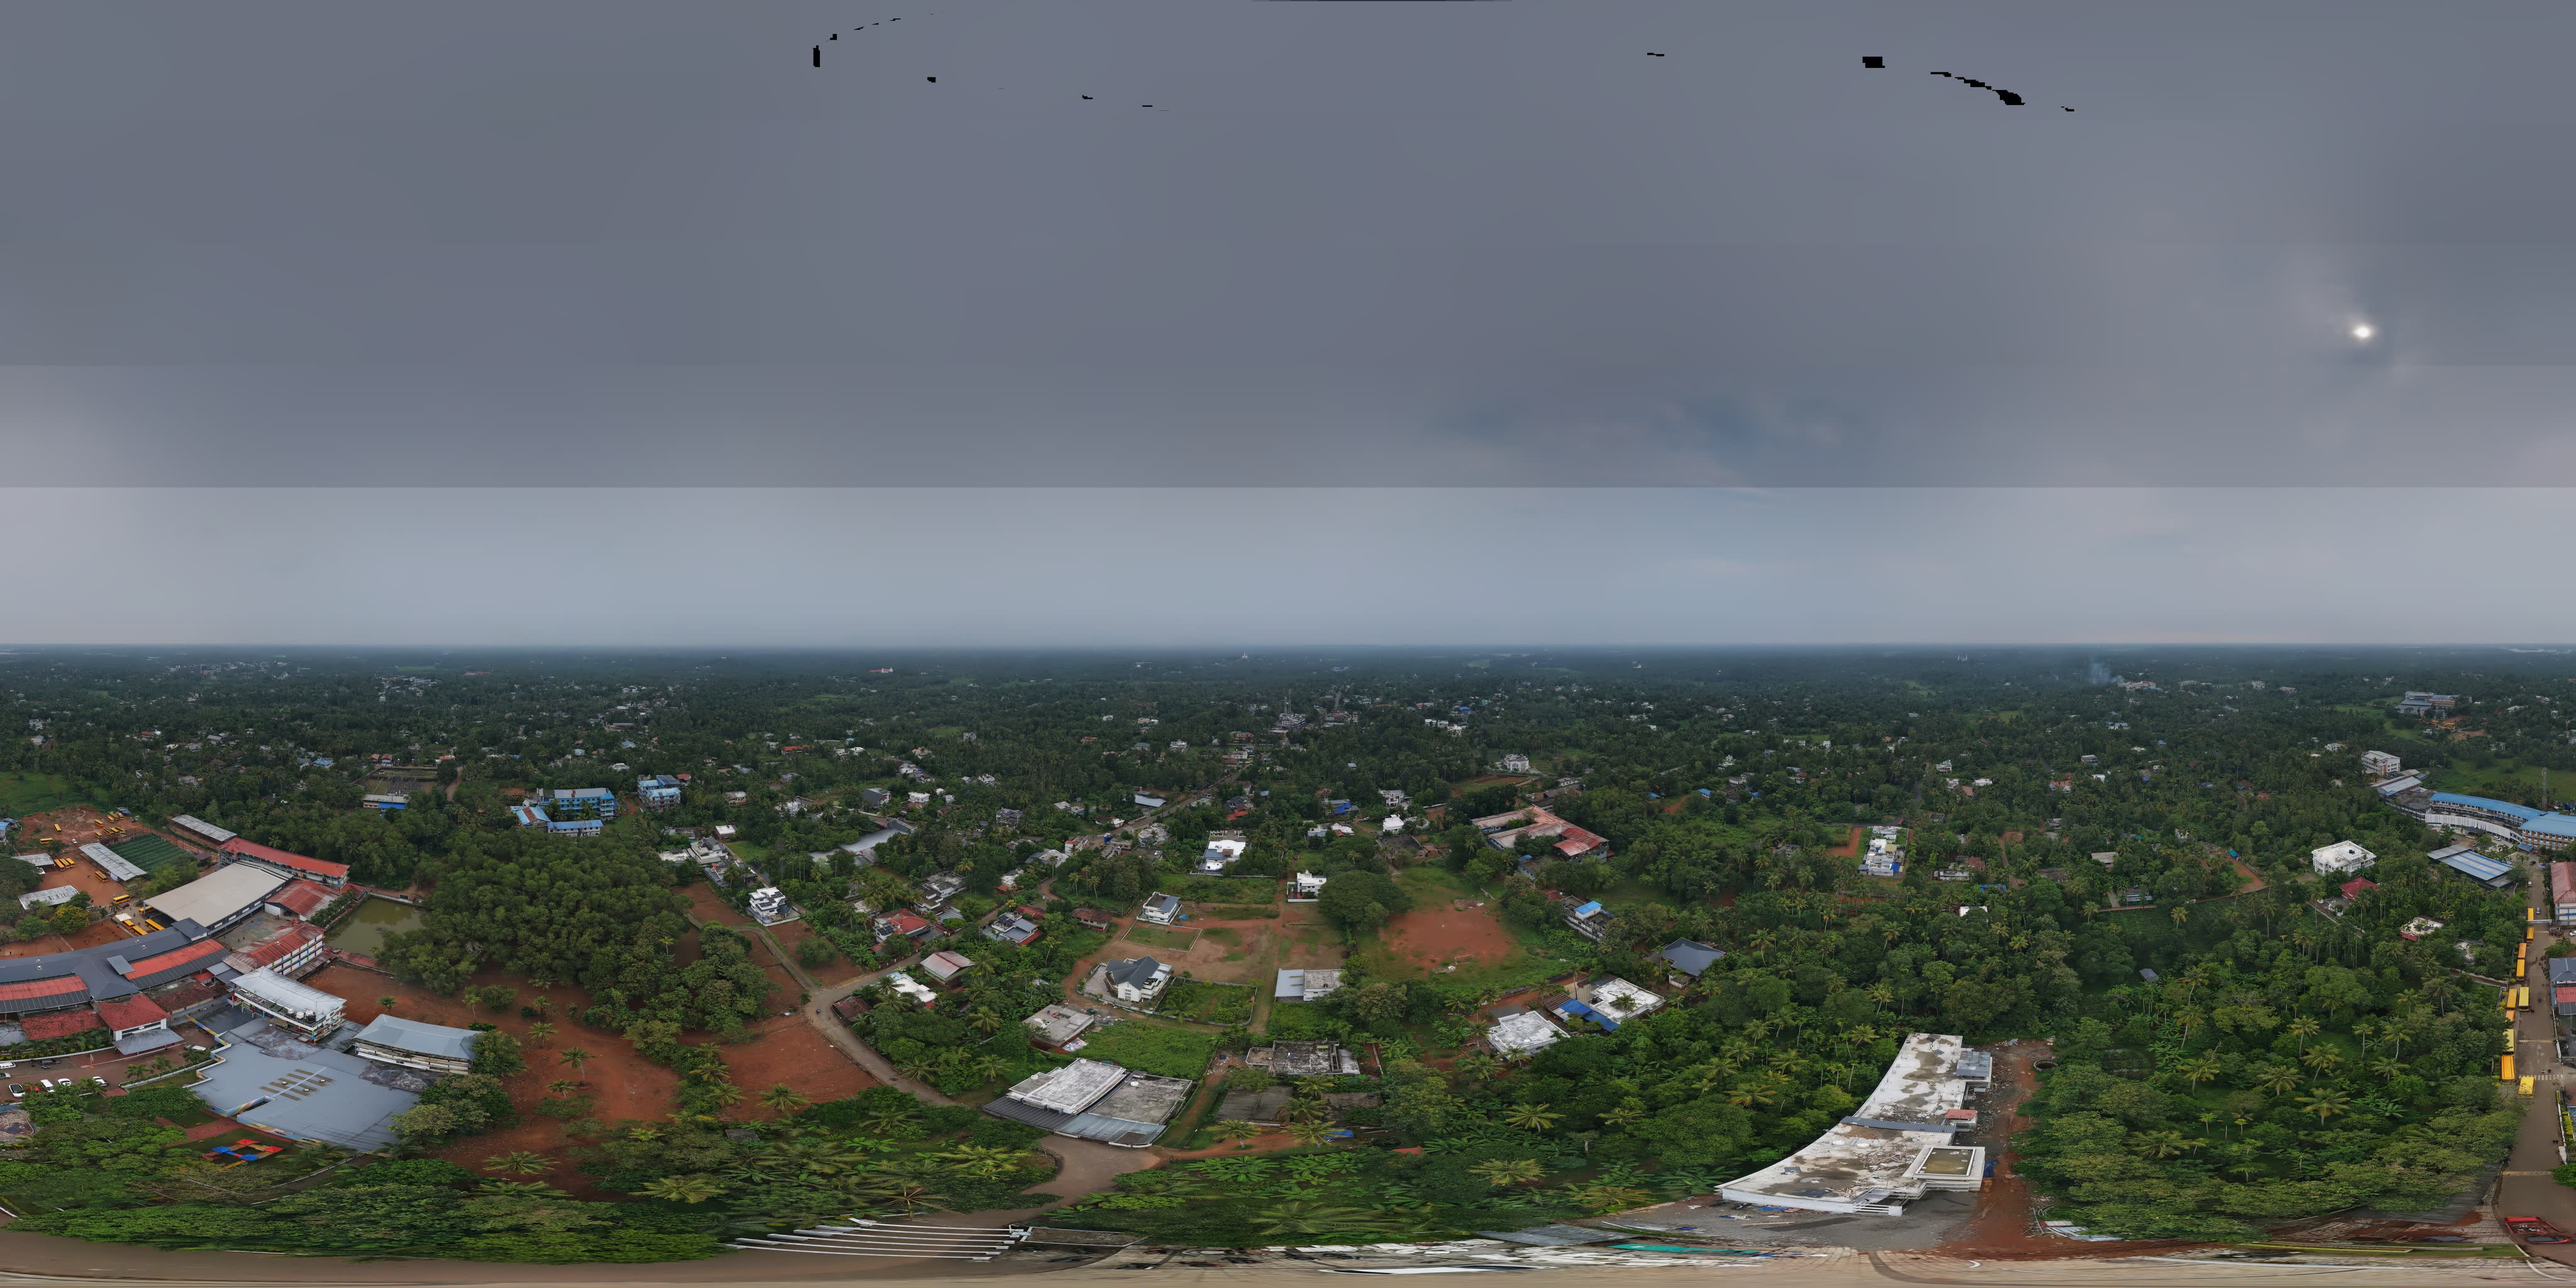
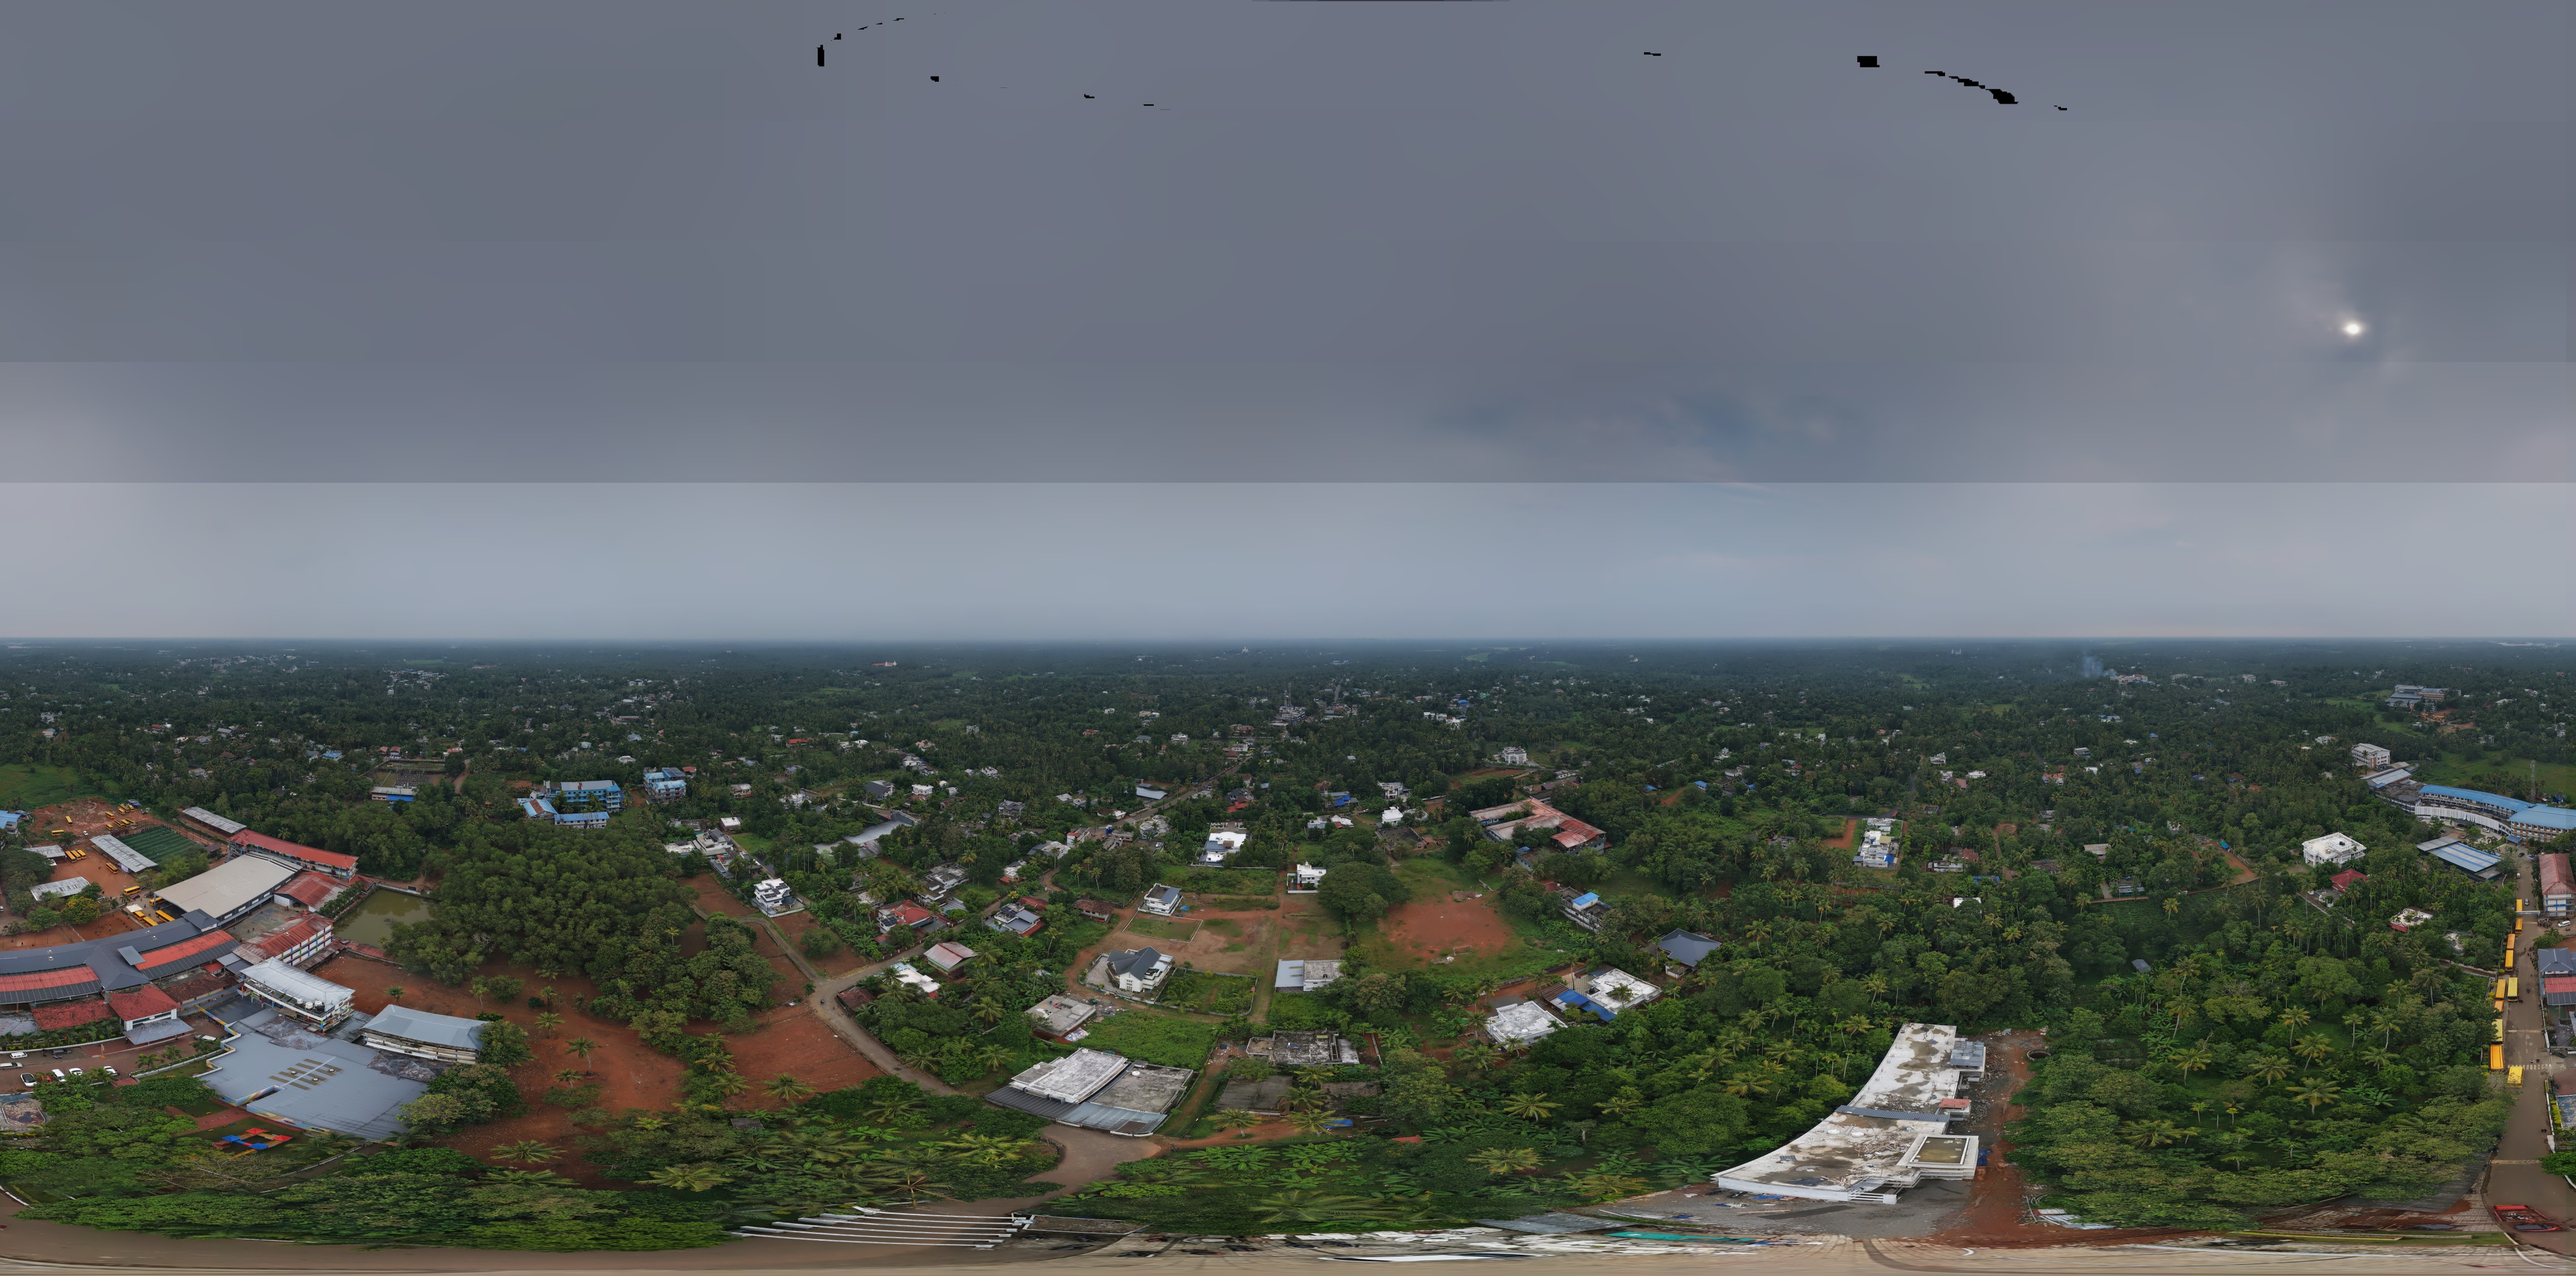
Restore crystal-clear master quality without loss and fix mobile touch freeze bug

diff --git a/360-map/src/components/PanoramaViewer.tsx b/360-map/src/components/PanoramaViewer.tsx
@@ -4,24 +4,15 @@ import 'pannellum/build/pannellum.js'
 import type { PannellumViewer } from '../types/pannellum'
 
 export interface PanoramaViewerProps {
-  /** Tiny, blurred image painted immediately while the real texture downloads. */
+  /** Tiny, blurred preview loaded immediately behind the splash screen. */
   preview: string
-  /** 2048px texture: specifically optimized for mobile and low-end GPUs to prevent rotation/zoom lag. */
-  mobile?: string
-  /** Medium image (4096px): fits mid-range phones, tablets, and laptops. */
+  /** 4096px master texture: pixel-perfect Retina clarity on mobile phones and tablets. */
   standard: string
-  /** Full-detail image (8192px): only used on high-spec desktop displays with capable GPUs. */
+  /** 8192px master texture: ultra-detailed clarity for large desktop screens with high-end GPUs. */
   highRes?: string
   /** Called once the chosen texture has finished loading. */
   onReady?: () => void
   className?: string
-}
-
-export interface DeviceProfile {
-  tier: 'low' | 'mid' | 'high'
-  targetDpr: number
-  friction: number
-  compass: boolean
 }
 
 /** Largest texture this device's WebGL can bind (0 when WebGL is missing). */
@@ -40,162 +31,58 @@ function getMaxTextureSize(): number {
 }
 
 /**
- * Checks for known low-end mobile / integrated GPUs with limited fill-rate
- * or narrow memory bus that struggle with high-resolution equirectangular sampling.
+ * High-definition texture selector:
+ * Keeps 100% crystal-clear original quality without exceeding GPU hardware limits.
  */
-function isLowTierGPU(): boolean {
-  try {
-    const canvas = document.createElement('canvas')
-    const gl = (canvas.getContext('webgl') ||
-      canvas.getContext('experimental-webgl')) as WebGLRenderingContext | null
-    if (!gl) return true
-    const debugInfo = gl.getExtension('WEBGL_debug_renderer_info')
-    if (debugInfo) {
-      const renderer = (gl.getParameter(debugInfo.UNMASKED_RENDERER_WEBGL) || '').toLowerCase()
-      gl.getExtension('WEBGL_lose_context')?.loseContext()
-      if (/mali-4|mali-t|mali-g3|mali-g51|mali-g52|adreno\s*(3|4|5|610|612|615|616)|powervr/i.test(renderer)) {
-        return true
-      }
-    } else {
-      gl.getExtension('WEBGL_lose_context')?.loseContext()
-    }
-  } catch {
-    // ignore
-  }
-  return false
-}
+function pickSource(standard: string, highRes?: string): string {
+  if (!highRes) return standard
 
-/**
- * Analyzes device memory, CPU cores, screen dimensions, GPU and user agent
- * to categorize the device into 'low', 'mid', or 'high'.
- */
-function detectDeviceProfile(): DeviceProfile {
-  if (typeof window === 'undefined') {
-    return { tier: 'mid', targetDpr: 1, friction: 0.15, compass: false }
-  }
+  if (typeof window === 'undefined') return standard
 
-  const nav = navigator as Navigator & {
-    deviceMemory?: number
-    connection?: { saveData?: boolean }
-  }
-
+  const isMobileScreen = window.innerWidth < 1200 || (window.screen && window.screen.width < 1200)
   const isTouch = Boolean(
     (typeof navigator !== 'undefined' && navigator.maxTouchPoints > 0) ||
     'ontouchstart' in window
   )
-  const isMobileScreen = window.innerWidth <= 820 || (window.screen && window.screen.width <= 820)
   const isMobileUA = /Android|webOS|iPhone|iPad|iPod|BlackBerry|IEMobile|Opera Mini|Mobile/i.test(
     navigator.userAgent
   )
-  const isMobile = isMobileUA || (isTouch && isMobileScreen)
 
-  const ram = typeof nav.deviceMemory === 'number' ? nav.deviceMemory : undefined
-  const cores = typeof navigator.hardwareConcurrency === 'number' ? navigator.hardwareConcurrency : undefined
-  const saveData = Boolean(nav.connection?.saveData)
-  const maxTex = getMaxTextureSize()
-  const lowGPU = isLowTierGPU()
-
-  // Low-tier conditions:
-  // 1. User has "Save Data" turned on
-  // 2. GPU reported as known low-tier mobile chip
-  // 3. WebGL max texture size is under 8192
-  // 4. Low RAM (<= 4 GB on Android)
-  // 5. Mobile device with <= 4 CPU cores or small screen width
-  const isLowTier =
-    saveData ||
-    lowGPU ||
-    (maxTex > 0 && maxTex < 8192) ||
-    (typeof ram === 'number' && ram > 0 && ram <= 4) ||
-    (isMobile && typeof cores === 'number' && cores <= 4) ||
-    (isMobile && window.innerWidth <= 540)
-
-  if (isLowTier) {
-    return {
-      tier: 'low',
-      // Capping DPR to 1.15 slashes fragment shader fill-rate workload by up to 80% on 1080p+ mobile screens,
-      // avoiding GPU throttling while keeping visuals crisp.
-      targetDpr: Math.min(window.devicePixelRatio || 1, 1.15),
-      // Higher friction halts rotation quickly, preventing touch queue momentum lag/stuck feeling.
-      friction: 0.22,
-      compass: false,
-    }
+  // On mobile/tablets, 4096x2048 is pixel-perfect 1:1 match with Retina screens (~1138px across 100° FOV).
+  // It completely avoids split-texture shader branching in WebGL, guaranteeing 60fps with zero blur.
+  if (isMobileScreen || isTouch || isMobileUA) {
+    return standard
   }
 
-  if (isMobile) {
-    return {
-      tier: 'mid',
-      targetDpr: Math.min(window.devicePixelRatio || 1, 1.5),
-      friction: 0.18,
-      compass: true,
-    }
+  // Desktops with capable GPUs bind the full 8192px master panorama
+  if (getMaxTextureSize() >= 8192) {
+    return highRes
   }
 
-  // Desktop / Laptop detection
-  const isHighEndDesktop =
-    !isTouch &&
-    window.innerWidth >= 1200 &&
-    maxTex >= 8192 &&
-    (typeof ram === 'undefined' || ram >= 8) &&
-    (typeof cores === 'undefined' || cores >= 6)
-
-  if (isHighEndDesktop) {
-    return {
-      tier: 'high',
-      targetDpr: Math.min(window.devicePixelRatio || 1, 2.0),
-      friction: 0.15,
-      compass: true,
-    }
-  }
-
-  return {
-    tier: 'mid',
-    targetDpr: Math.min(window.devicePixelRatio || 1, 1.5),
-    friction: 0.15,
-    compass: true,
-  }
+  return standard
 }
 
 /**
- * Clamps window.devicePixelRatio before Pannellum initializes so its internal canvas
- * constructor does not allocate an oversized WebGL drawing buffer on high-DPI budget phones.
+ * Ensures canvas renders at true Apple Retina / High-DPI sharpness (DPR 2.0)
+ * without wasteful 3.5x oversampling on budget phone screens.
  */
-function clampDevicePixelRatio(targetDpr: number) {
+function clampRetinaDpr(maxDpr: number = 2.0) {
   if (typeof window === 'undefined') return
   const currentDpr = window.devicePixelRatio || 1
-  if (currentDpr <= targetDpr) return
+  if (currentDpr <= maxDpr) return
 
   try {
     Object.defineProperty(window, 'devicePixelRatio', {
-      get: () => targetDpr,
+      get: () => maxDpr,
       configurable: true,
     })
   } catch {
-    // If not configurable, fallback is handled via renderer.resize
+    // Handled gracefully via renderer.resize
   }
-}
-
-/**
- * Choose the optimal texture resolution for this device's tier.
- */
-function pickSource(
-  profile: DeviceProfile,
-  mobile?: string,
-  standard?: string,
-  highRes?: string
-): string {
-  const fallback = standard || mobile || highRes || ''
-  if (profile.tier === 'low') {
-    return mobile || fallback
-  }
-  if (profile.tier === 'high' && highRes) {
-    return highRes
-  }
-  return fallback
 }
 
 export default function PanoramaViewer({
   preview,
-  mobile,
   standard,
   highRes,
   onReady,
@@ -215,27 +102,53 @@ export default function PanoramaViewer({
       return
     }
 
-    const profile = detectDeviceProfile()
-    clampDevicePixelRatio(profile.targetDpr)
+    // Keep razor-sharp Retina resolution (DPR 2.0)
+    const targetDpr = Math.min(window.devicePixelRatio || 1, 2.0)
+    clampRetinaDpr(targetDpr)
 
-    const panoramaSrc = pickSource(profile, mobile, standard, highRes)
+    const panoramaSrc = pickSource(standard, highRes)
 
-    const viewer = window.pannellum.viewer(container, {
-      type: 'equirectangular',
-      panorama: panoramaSrc,
-      preview,
-      autoLoad: true,
-      compass: profile.compass,
-      showFullscreenCtrl: true,
-      showZoomCtrl: true,
-      hfov: 100,
-      minHfov: 50,
-      maxHfov: 120,
-      friction: profile.friction,
-      touchPanSpeedCoeffFactor: 1,
-    })
+    // FIX FOR MOBILE LAG & STUCK BUG:
+    // Pannellum's 2015 "IE/Edge" PointerEvent handler leaves ghost coordinates in an internal array
+    // whenever a finger is lifted during pinch-to-zoom. When the user continues with 1 finger,
+    // it keeps calculating pinch math against the phantom finger, locking up the view.
+    // By temporarily masking PointerEvent during viewer creation on touch devices, Pannellum
+    // binds native touchstart/touchmove/touchend which correctly tracks physical fingers.
+    const isTouchDevice =
+      typeof window !== 'undefined' &&
+      ('ontouchstart' in window ||
+        (typeof navigator !== 'undefined' && navigator.maxTouchPoints > 0) ||
+        /Mobi|Android|iPhone|iPad/i.test(navigator.userAgent))
 
-    // Double safeguard: ensure renderer.resize strictly respects targetDpr on orientation/screen changes
+    const origPointerEvent = (window as unknown as { PointerEvent?: unknown }).PointerEvent
+
+    let viewer: PannellumViewer
+    try {
+      if (isTouchDevice) {
+        delete (window as unknown as { PointerEvent?: unknown }).PointerEvent
+      }
+
+      viewer = window.pannellum.viewer(container, {
+        type: 'equirectangular',
+        panorama: panoramaSrc,
+        preview,
+        autoLoad: true,
+        compass: true,
+        showFullscreenCtrl: true,
+        showZoomCtrl: true,
+        hfov: 100,
+        minHfov: 45,
+        maxHfov: 120,
+        friction: 0.15,
+        touchPanSpeedCoeffFactor: 1,
+      })
+    } finally {
+      if (isTouchDevice && origPointerEvent) {
+        ;(window as unknown as { PointerEvent?: unknown }).PointerEvent = origPointerEvent
+      }
+    }
+
+    // Enforce razor-sharp Retina DPR on canvas resizing
     try {
       const viewerAny = viewer as unknown as {
         getRenderer?: () => {
@@ -250,8 +163,8 @@ export default function PanoramaViewer({
           origResize()
           const canvas = renderer.getCanvas()
           if (canvas) {
-            const expectedW = Math.round(canvas.clientWidth * profile.targetDpr)
-            const expectedH = Math.round(canvas.clientHeight * profile.targetDpr)
+            const expectedW = Math.round(canvas.clientWidth * targetDpr)
+            const expectedH = Math.round(canvas.clientHeight * targetDpr)
             if (canvas.width > expectedW || canvas.height > expectedH) {
               canvas.width = expectedW
               canvas.height = expectedH
@@ -269,15 +182,34 @@ export default function PanoramaViewer({
       // Ignore if Pannellum internals change
     }
 
+    // Seamless touch transition: when lifting 1 finger after a pinch, smoothly re-anchor single-finger drag
+    const dragFix = container.querySelector('.pnlm-dragfix') as HTMLElement | null
+    const handleTouchEnd = (e: TouchEvent) => {
+      if (e.touches.length === 1 && dragFix) {
+        const touch = e.touches[0]
+        const simulatedStart = new TouchEvent('touchstart', {
+          touches: [touch],
+          targetTouches: [touch],
+          changedTouches: [touch],
+          bubbles: true,
+          cancelable: true,
+        })
+        dragFix.dispatchEvent(simulatedStart)
+      }
+    }
+
+    dragFix?.addEventListener('touchend', handleTouchEnd, { passive: true })
+
     viewer.on('load', () => onReadyRef.current?.())
 
     viewerRef.current = viewer
 
     return () => {
+      dragFix?.removeEventListener('touchend', handleTouchEnd)
       viewerRef.current = null
       viewer.destroy()
     }
-  }, [preview, mobile, standard, highRes])
+  }, [preview, standard, highRes])
 
   return <div ref={containerRef} className={className} />
 }

diff --git a/360-map/src/App.tsx b/360-map/src/App.tsx
@@ -4,7 +4,6 @@ import { WelcomeScreen } from './components/WelcomeScreen'
 import './App.css'
 
 const PANORAMA_PREVIEW = '/panoramas/pano-preview.jpg'
-const PANORAMA_MOBILE = '/panoramas/pano-2048.jpg'
 const PANORAMA_STANDARD = '/panoramas/pano-4096.jpg'
 const PANORAMA_HIGH_RES = '/panoramas/pano-8192.jpg'
 
@@ -16,7 +15,6 @@ function App() {
       <PanoramaViewer
         className="panorama-viewer"
         preview={PANORAMA_PREVIEW}
-        mobile={PANORAMA_MOBILE}
         standard={PANORAMA_STANDARD}
         highRes={PANORAMA_HIGH_RES}
         onReady={() => setImageReady(true)}
